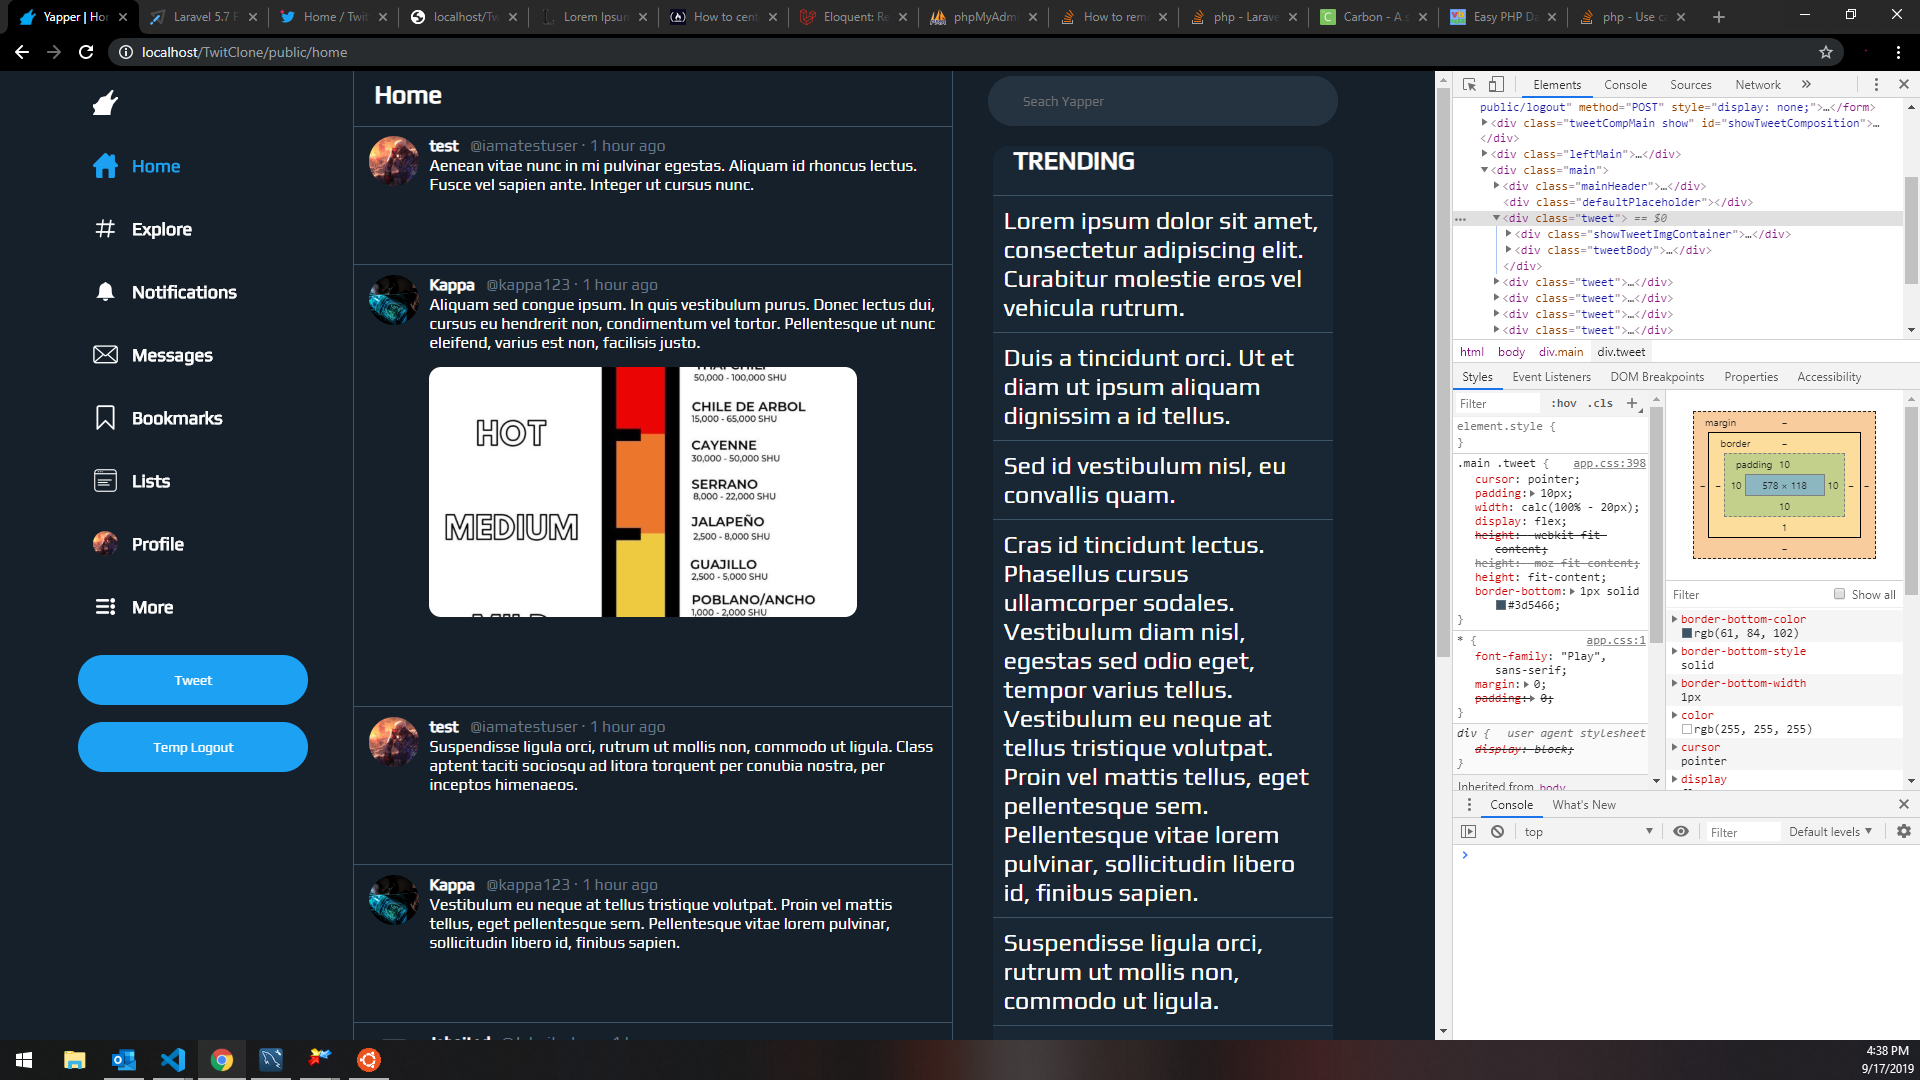
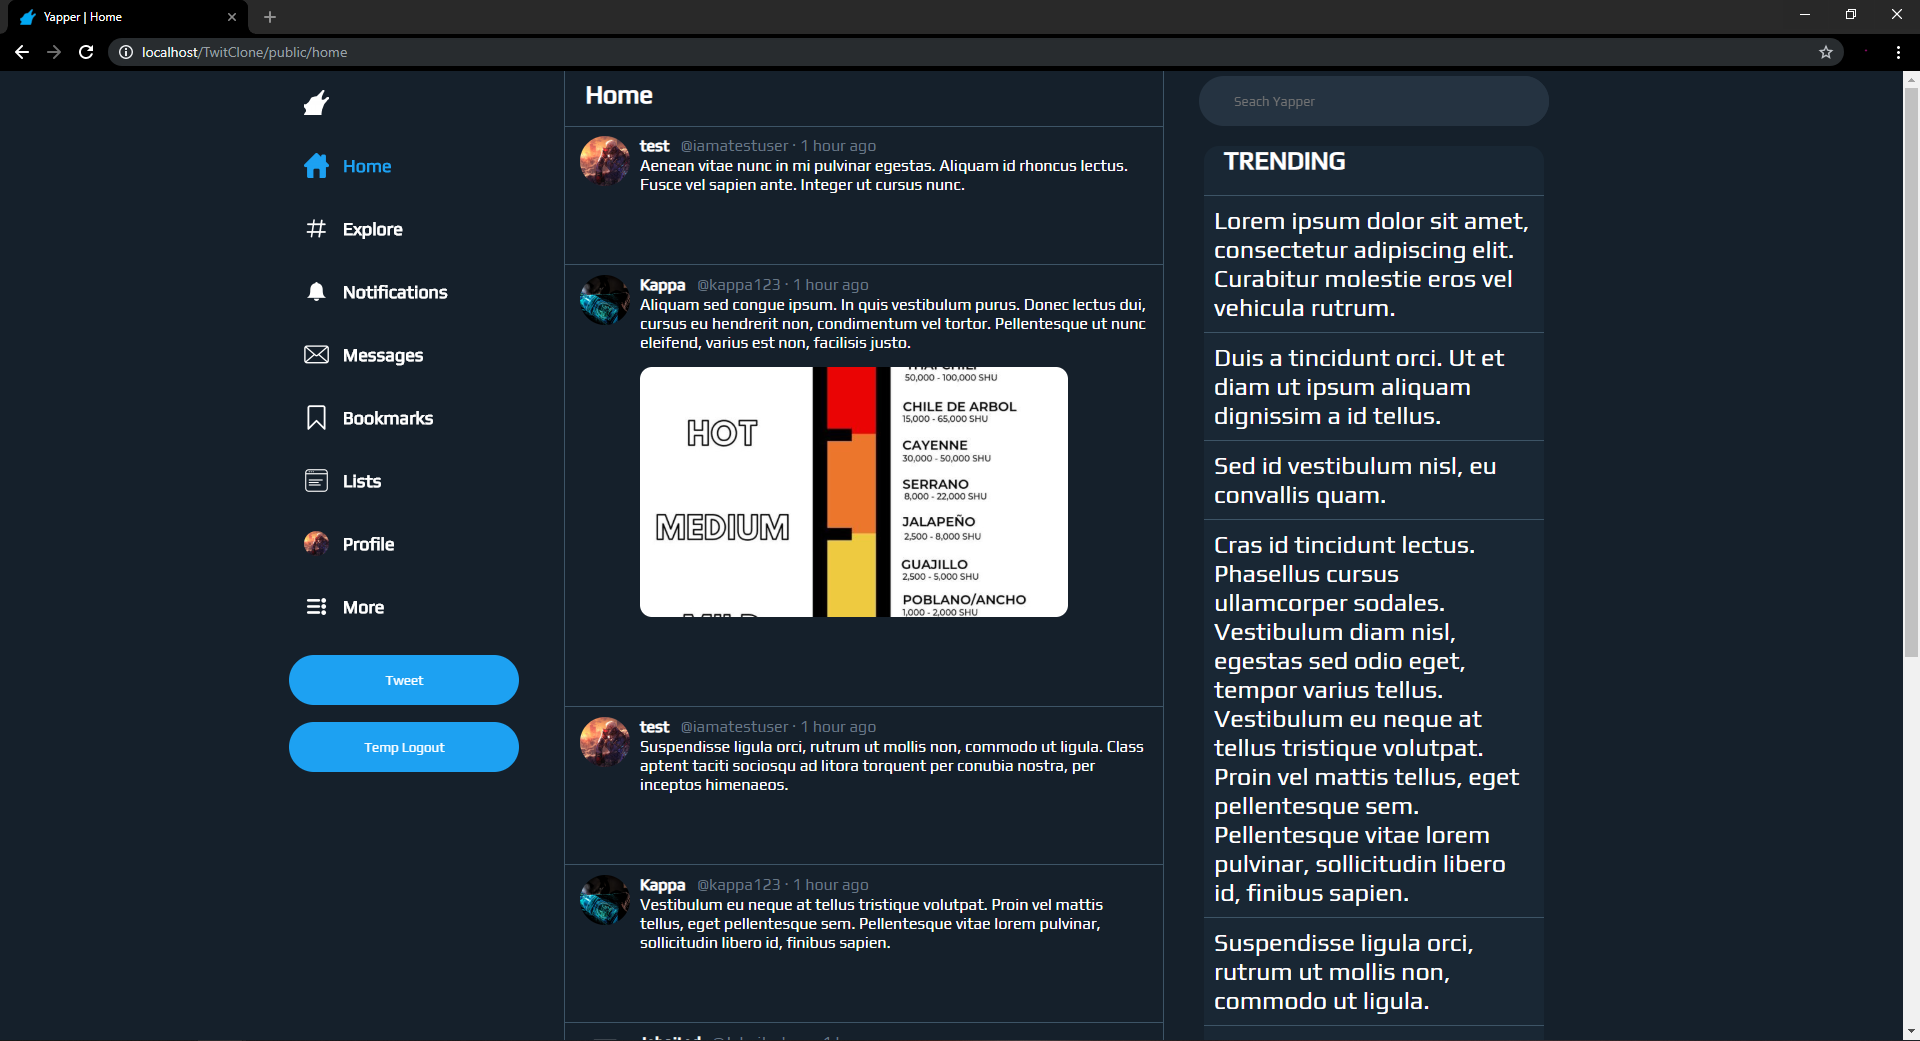
added a way to have a dropdown for each tweet

diff --git a/resources/sass/app.scss b/resources/sass/app.scss
@@ -366,7 +366,7 @@ button{
                     .tweetPicture{
                         margin-top: 15px;
                         margin-bottom: 15px;
-                        width: calc(100% - 80px);
+                        width: 100%;
                         height: 250px;
                         border-radius: 12px;
                         object-fit: cover;
@@ -388,6 +388,23 @@ button{
     display: inline-block;
     &:hover{
         text-decoration: underline;
+    }
+}
+.downArrWrapper{
+    position: relative;
+    float: right;
+    width: 27px;
+    height: 27px;
+    margin-right: -4px;
+    margin-top: -7px;
+    &:hover{
+        border-radius: 50%;
+        background-color: $twitterBlueHighlight;
+    }
+    .downArr{
+        width: 15px;
+        height: 15px;
+        margin: 6px;
     }
 }
 .defaultPlaceholder{

diff --git a/public/css/app.css b/public/css/app.css
@@ -455,7 +455,7 @@ button {
 .main .tweet .tweetBody .tweetContent .tweetContentBody .tweetPicture {
   margin-top: 15px;
   margin-bottom: 15px;
-  width: calc(100% - 80px);
+  width: 100%;
   height: 250px;
   border-radius: 12px;
   -o-object-fit: cover;
@@ -477,6 +477,26 @@ button {
 
 .timeForHumans:hover {
   text-decoration: underline;
+}
+
+.downArrWrapper {
+  position: relative;
+  float: right;
+  width: 27px;
+  height: 27px;
+  margin-right: -4px;
+  margin-top: -7px;
+}
+
+.downArrWrapper:hover {
+  border-radius: 50%;
+  background-color: #162d40;
+}
+
+.downArrWrapper .downArr {
+  width: 15px;
+  height: 15px;
+  margin: 6px;
 }
 
 .defaultPlaceholder {

diff --git a/resources/views/home.blade.php b/resources/views/home.blade.php
@@ -9,6 +9,24 @@
 @endsection
 
 @section('content')
+    <script>
+        function showDropdownMenu(id){
+            document.getElementById('tweetCoverId').style.display = "block";
+            document.getElementById(id).style.display = "block";
+        }
+
+        window.onclick = function(event){
+            var classes = event.toElement.classList;
+            if(classes.contains('bigCoverTransparent')){
+                document.getElementById('tweetCoverId').style.display = "none";
+                var ele = document.getElementsByClassName('dropdown-content');
+                for(var i = 0; i < ele.length; i++){
+                    ele[i].style.display = "none";
+                }
+            }
+        }
+    </script>
+    <div class="bigCoverTransparent show" id="tweetCoverId"></div>
     @foreach ($tweets as $tweet)
         <div class="tweet">
             <div class="showTweetImgContainer">
@@ -39,6 +57,22 @@
                             <div style="display: inline;">@</div><div style="display: inline;">{{ $tweet->user->name }} · </div>
                         </div>
                         <div class="timeForHumans">{{ $tweet->created_at->diffForHumans() }}</div>
+                        <div class="downArrWrapper" onclick="showDropdownMenu('{{ $tweet->id }}dropdown')">
+                            <div class="downArr"><img src="{{ route('icon', ['name' => 'downarr', 'color' => 'Black', 'size' => '15']) }}"></div>
+                            <div>
+                                <div class="dropdown-content show" id="{{ $tweet->id }}dropdown">
+                                    <p class="temp">testing</p>
+                                    <p class="temp">testing</p>
+                                    <p class="temp">testing</p>
+                                    <p class="temp">testing</p>
+                                    <p class="temp">testing</p>
+                                    <p class="temp">testing</p>
+                                    <p class="temp">testing</p>
+                                    <p class="temp">testing</p>
+                                    <p class="temp">testing</p>
+                                </div>
+                            </div>
+                        </div>
                         <div class="tweetContentBody">
                             @if ($tweet->content)
                                 <p>{{ $tweet->content }}</p>                            
@@ -54,6 +88,5 @@
                 </div>
             @endif
         </div>
-    @endforeach
-    
+    @endforeach    
 @endsection

diff --git a/routes/web.php b/routes/web.php
@@ -30,7 +30,7 @@ Route::post('/submitTweet', 'TweetController@submitTweet')->name('submitTweet');
 Route::post('/pfupload', 'UploadsController@pfupload')->name('profileUpload.post');
 
 Route::prefix('asset')->group(function(){
-    Route::get('icon/{name}/{color?}/{size?}', 'AssetController@icon');
+    Route::get('icon/{name}/{color?}/{size?}', 'AssetController@icon')->name('icon');
     Route::get('{id}/pic/{size?}', 'AssetController@profilePic')->name('profilePic');
     Route::get('tweet/{id}', 'AssetController@tweetMedia')->name('tweetMedia');
 });
